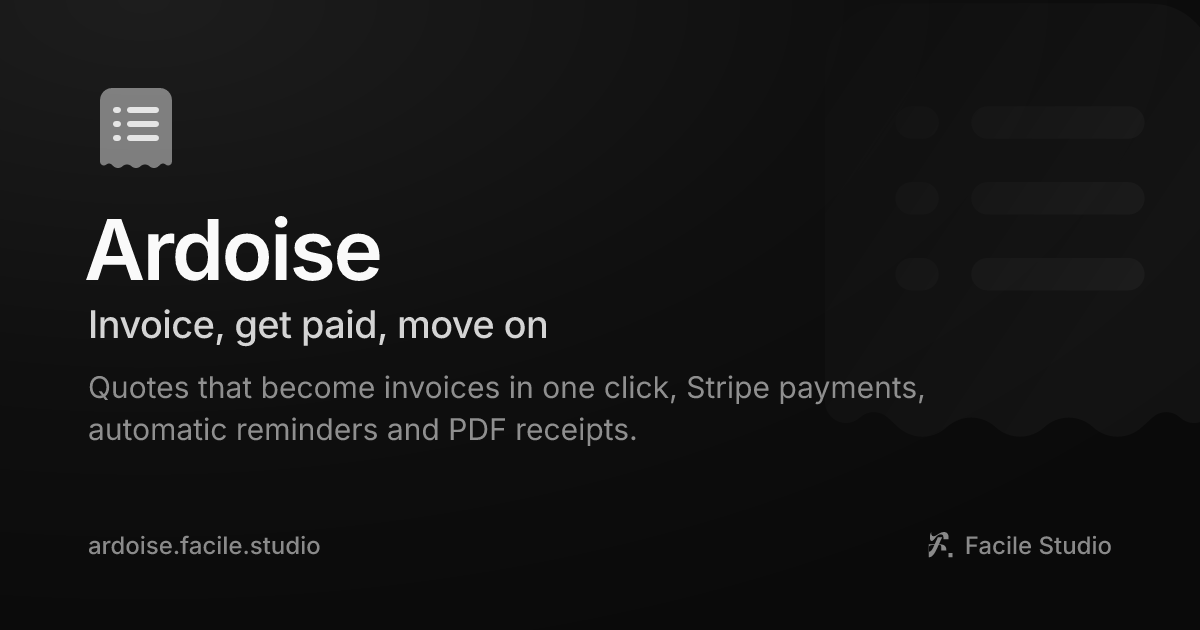
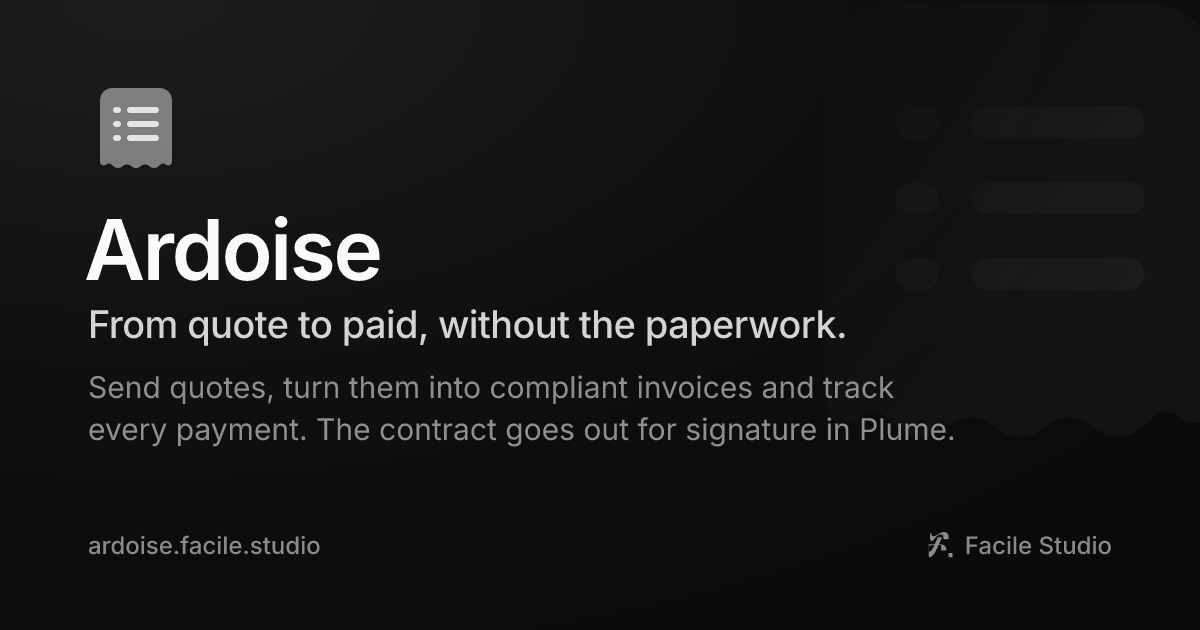
fix(web): show the landing pitch in the link preview and manifest

Changed region(s): [[0.0617, 0.4825, 0.7092, 0.5429], [0.0617, 0.6635, 0.8017, 0.7238], [0.0617, 0.6032, 0.7708, 0.6333]]

diff --git a/apps/web/src/app.html b/apps/web/src/app.html
@@ -29,8 +29,8 @@
     </script>
 
     %sveltekit.head%
-    <title>Ardoise · Invoice, get paid, move on</title>
-    <meta name="description" content="Quotes that become invoices in one click, Stripe payments, automatic reminders and PDF receipts." />
+    <title>Ardoise · From quote to paid, without the paperwork.</title>
+    <meta name="description" content="Send quotes, turn them into compliant invoices and track every payment. The contract goes out for signature in Plume." />
     <link rel="icon" href="/favicon.svg" type="image/svg+xml" />
     <link rel="icon" href="/favicon.ico" sizes="48x48" />
     <link rel="apple-touch-icon" href="/apple-touch-icon.png" />
@@ -41,15 +41,15 @@
     <meta property="og:site_name" content="Facile" />
     <meta property="og:locale" content="en_US" />
     <meta property="og:url" content="https://ardoise.facile.studio/" />
-    <meta property="og:title" content="Ardoise · Invoice, get paid, move on" />
-    <meta property="og:description" content="Quotes that become invoices in one click, Stripe payments, automatic reminders and PDF receipts." />
+    <meta property="og:title" content="Ardoise · From quote to paid, without the paperwork." />
+    <meta property="og:description" content="Send quotes, turn them into compliant invoices and track every payment. The contract goes out for signature in Plume." />
     <meta property="og:image" content="https://ardoise.facile.studio/og-image.png" />
     <meta property="og:image:width" content="1200" />
     <meta property="og:image:height" content="630" />
-    <meta property="og:image:alt" content="Ardoise: Invoice, get paid, move on" />
+    <meta property="og:image:alt" content="Ardoise: From quote to paid, without the paperwork." />
     <meta name="twitter:card" content="summary_large_image" />
-    <meta name="twitter:title" content="Ardoise · Invoice, get paid, move on" />
-    <meta name="twitter:description" content="Quotes that become invoices in one click, Stripe payments, automatic reminders and PDF receipts." />
+    <meta name="twitter:title" content="Ardoise · From quote to paid, without the paperwork." />
+    <meta name="twitter:description" content="Send quotes, turn them into compliant invoices and track every payment. The contract goes out for signature in Plume." />
     <meta name="twitter:image" content="https://ardoise.facile.studio/og-image.png" />
   </head>
   <body data-sveltekit-preload-data="hover">
